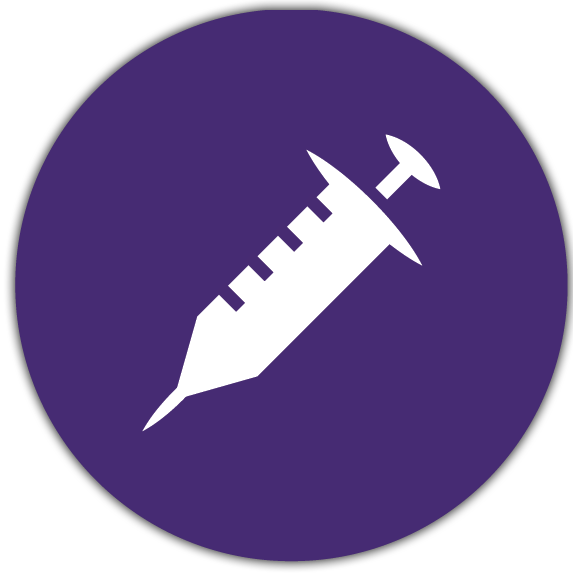
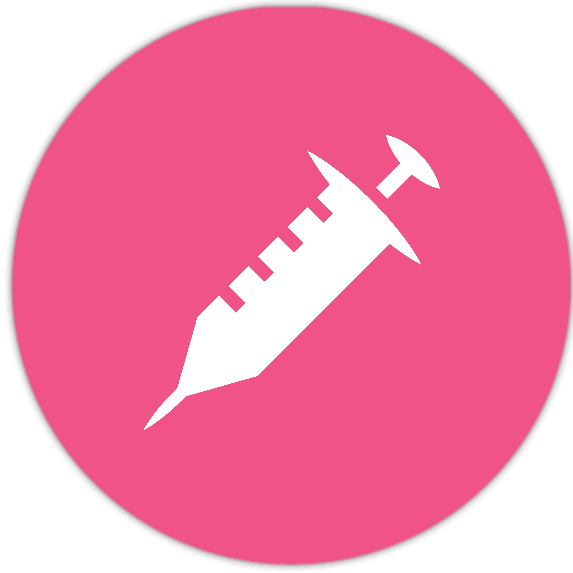
Added pictures(read description)
Images added:
-Navegation app:
    - user marker
    - arrow
    - cone of vision
    - all icons for points of interest
    - text boxes for info on map
    - map
Messaging:
    - add contact icon
    - premade message icon
    - keyboard
    - microphone
    - contact
    - pasta com 23 letras para se der jeito para o menu dos contactos

tmb adicionei um simbolo de acept and cancel na pasta de images.
Thats it :)

diff --git a/Relogio/Apps/Health App/Health App.html b/Relogio/Apps/Health App/Health App.html
@@ -20,7 +20,7 @@
                         <!-- Alcool Test -->
                         <tr>
                             <th>
-                                <a href="Health App Test.html" onclick="saveTestInfo('#26B6A0', 1)">
+                                <a href="Health App Test.html" onclick="saveTestInfo('#F05485', 1)">
                                     <img class="iconApp" draggable="false" src="Images/Alcool Test Icon.png">
                                 </a>
                                 <figcaption class="appSubtitle"> Teste de<br>Alcoolemia </figcaption>
@@ -30,7 +30,7 @@
                         <!-- Blood Pressure Test -->
                         <tr>
                             <th>
-                                <a href="Health App Test.html" onclick="saveTestInfo('#3E67B1', 2)">
+                                <a href="Health App Test.html" onclick="saveTestInfo('#F05485', 2)">
                                     <img class="iconApp" draggable="false" src="Images/Blood Pressure Test Icon.png">
                                 </a>
                                 <figcaption class="appSubtitle"> Press&atilde;o <br>Arterial </figcaption>
@@ -40,7 +40,7 @@
                         <!-- Drug Test -->
                         <tr>
                             <th>
-                                <a href="Health App Test.html" onclick="saveTestInfo('#462A72', 3)">
+                                <a href="Health App Test.html" onclick="saveTestInfo('#F05485', 3)">
                                     <img class="iconApp" draggable="false" src="Images/Drug Test Icon.png">
                                 </a>
                                 <figcaption class="appSubtitle"> Teste de<br>Narc&oacute;ticos </figcaption>
@@ -50,7 +50,7 @@
                         <!-- Heart Rate Test -->
                         <tr>
                             <th>
-                                <a href="Health App Test.html" onclick="saveTestInfo('#F05686', 4)">
+                                <a href="Health App Test.html" onclick="saveTestInfo('#F05485', 4)">
                                     <img class="iconApp" draggable="false" src="Images/Heart Rate Test Icon.png">
                                 </a>
                                 <figcaption class="appSubtitle"> Ritmo<br>Card&iacute;aco </figcaption>
@@ -60,7 +60,7 @@
                         <!-- Blood Sugar Test -->
                         <tr>
                             <th>
-                                <a href="Health App Test.html" onclick="saveTestInfo('#E94E1E', 5)">
+                                <a href="Health App Test.html" onclick="saveTestInfo('#F05485', 5)">
                                     <img class="iconApp" draggable="false" src="Images/Blood Sugar Test Icon.png">
                                 </a>
                                 <figcaption class="appSubtitle"> Teste de<br>Glic&eacute;mia </figcaption>

diff --git a/Relogio/Apps/Health App/animation (Health App Test).js b/Relogio/Apps/Health App/animation (Health App Test).js
@@ -135,17 +135,18 @@ function testResults() {
 
 //handles the turning of the sprite to a button
 function buttonise() {
-    document.getElementById("Warning").style.animation = "morph 0.3s steps(17) 1, enlarge 0.3s ease-in 1";
-    document.getElementById("Warning").style.animationFillMode = "forwards";
-    document.getElementById("Result_Text").style.transition = "transform 0.3s, font-size 0.3s";
-    document.getElementById("Result_Text").style.transform  = "translate(0px, 60px)";
-    document.getElementById("Result_Text").style.fontSize   = "18px";
+    document.getElementById("Warning").style.animation           = "morph 0.3s steps(17) 1, enlarge 0.3s ease-in 1";
+    document.getElementById("Warning").style.animationFillMode   = "forwards";
+    document.getElementById("Result_Text").style.transition      = "transform 0.3s, font-size 0.3s";
+    document.getElementById("Result_Text").style.transform       = "translate(0px, 60px)";
+    document.getElementById("Result_Text").style.fontSize        = "18px";
     window.setTimeout(function() {
-        document.getElementById("Warning").style.visibility = "hidden";
+        document.getElementById("Warning").style.visibility      = "hidden";
         document.getElementById("Warningfinal").style.visibility = "visible";
         document.getElementById("Warningfinal").style.transform  = "translate(0px, 37px)";
+        document.getElementById("littlecircle").style.animation  = "animation: pulse 1s ease-in infinite";
         window.setTimeout(function() {
-            document.getElementById("littlecircle").style.opacity = "1";
+            document.getElementById("littlecircle").style.opacity= "1";
         }, 300);
     }, 600);
 }
@@ -176,6 +177,7 @@ function mousedownfunction() {
         count++;
         console.log(count.toString());
         if (count >= 100) {
+            localStorage.setItem("SOS", 1);
             window.location.href = "../SOS/SOS.html";
             clearTimeout(decrease_timer);
         }

diff --git a/Relogio/Apps/SOS/animation (SOS).js b/Relogio/Apps/SOS/animation (SOS).js
@@ -13,7 +13,7 @@ function decreaseTime() {
   time.clearRect(0, 0, tw, th);
 
   time.lineWidth   = 210;
-  time.font        = "50px sans-serif";
+  time.font        = "40px sans-serif";
   time.fillStyle   = "#FFFFFF";
   time.textAlign   = "center";
   time.shadowColor = "black";
@@ -42,10 +42,21 @@ function decreaseTime() {
     }, 1500);
   }
 
-  time.fillText(min+":"+sec, 75, 60);
+  time.fillText(min+":"+sec, 75, 42);
 }
 
 //gets random num
 function getRandomArbitrary(min, max) {
     return Math.random() * (max - min) + min;
+}
+
+
+function goBack() {
+  var ecra_Anterior = localStorage.getItem("SOS");
+
+  if (ecra_Anterior == 0) {
+    window.location.href = "../Menu.html";
+  } else {
+    window.location.href = "../Health App/Health App.html";
+  }
 }

diff --git a/Relogio/Apps/SOS/SOS.html b/Relogio/Apps/SOS/SOS.html
@@ -16,12 +16,10 @@
             <!-- Dark Background -->
             <div id="Touch_Screen">
               <p id="SOS_Text">
-                Cuidado<br>especializado a<br>chegar em<br><canvas id="Time"></canvas>
+                Cuidado<br>especializado a<br>chegar em:<br><canvas id="Time"></canvas>
               </p>
                 <!-- Back Button -->
-                <a href="../Menu.html">
-                    <img id="Back" src="../Images/back.png">
-                </a>
+                <img id="Cancel" onclick="goBack()" src="../Images/cancel.png">
             </div>
 
             <!-- Bezle -->

diff --git a/Relogio/Apps/SOS/style (SOS).css b/Relogio/Apps/SOS/style (SOS).css
@@ -6,12 +6,19 @@
   position:    absolute;
   width:       150px;
   height:      150px;
-  top:         15px;
-  left:        35px;
+  top:         -5px;
+  left:        30px;
   color:       white;
   text-align:  center;
   font-size:   20px;
   font-weight: bold;
   text-shadow: 0px 0px 4px #000000;
   font-family: "Open Sans", sans-serif;
+}
+
+#Cancel{
+  position: absolute;
+  height: 50px;
+  top: 145px;
+  left: 80px;
 }

diff --git a/Relogio/Apps/animation (Menu).js b/Relogio/Apps/animation (Menu).js
@@ -107,6 +107,7 @@ function mousedownfunction() {
         count++;
         console.log(count.toString());
         if (count >= 100) {
+            localStorage.setItem("SOS", 0);
             window.location.href = "SOS/SOS.html";
             clearTimeout(decrease_timer);
         }

diff --git a/Relogio/Apps/style (Menu).css b/Relogio/Apps/style (Menu).css
@@ -16,9 +16,9 @@
 
 #Back {
     position: absolute;
-    height:   70px;
-    top:      67px;
-    left:     -5px;
+    height:   55px;
+    top:      80px;
+    left:     0px;
 }
 
 #Progress_Circles {
